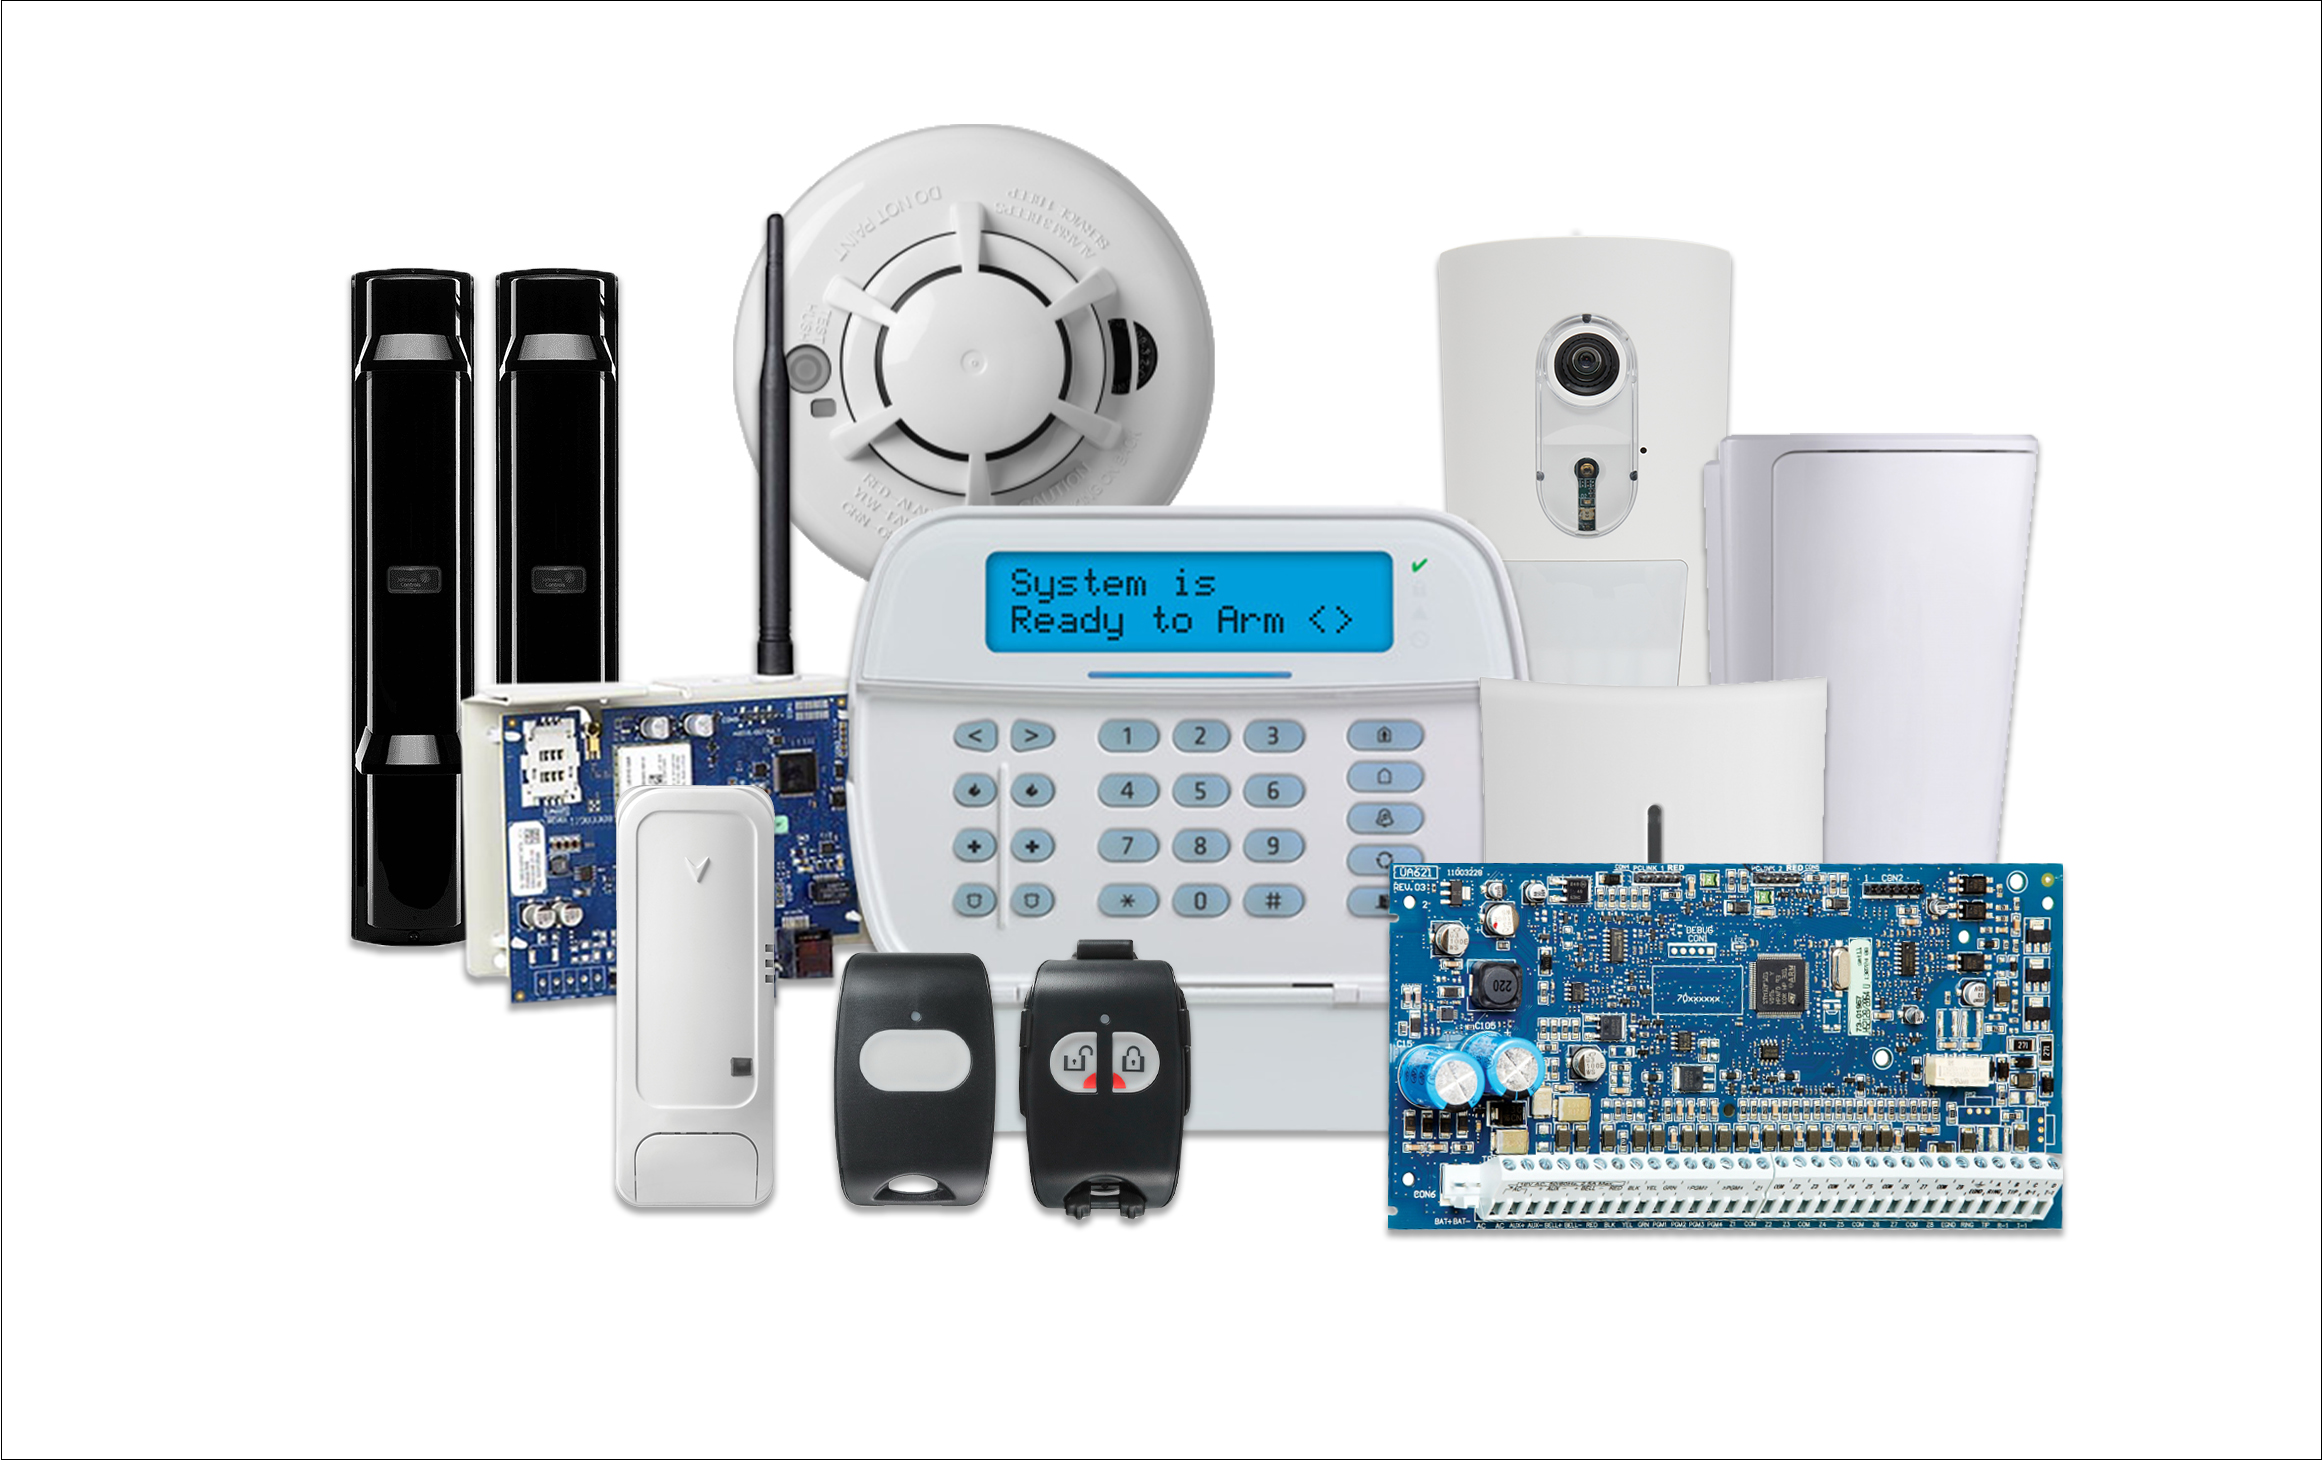
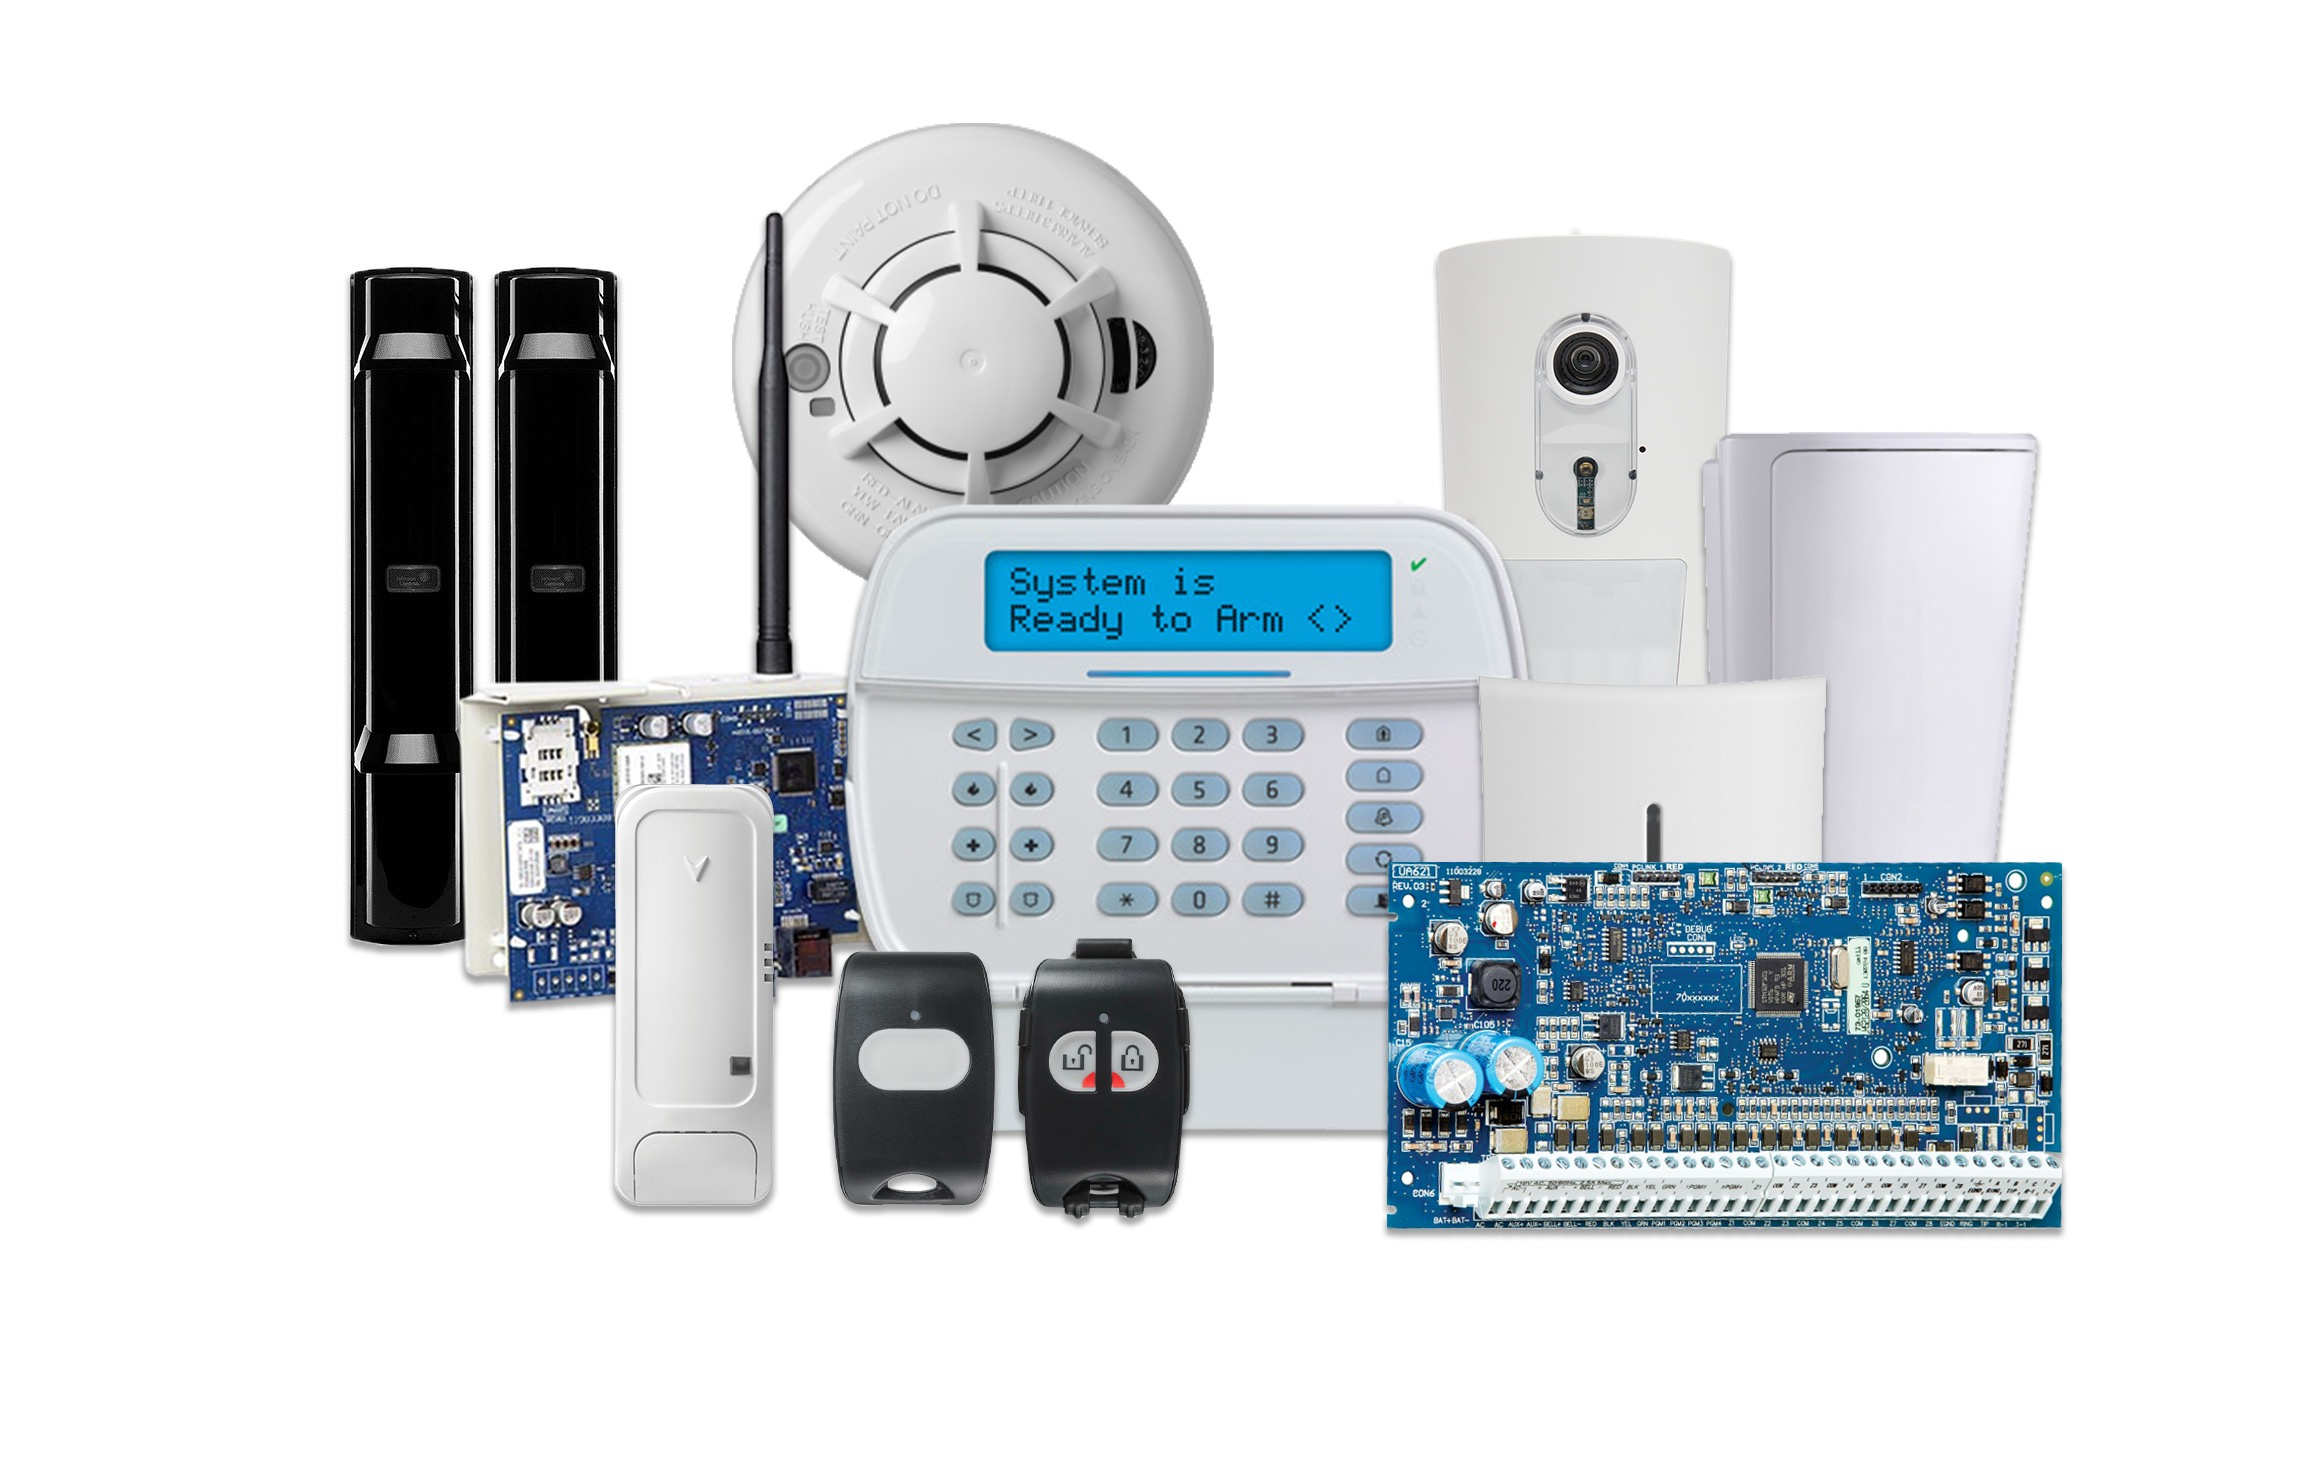
Ajusta visualizacion de paquetes Enterprise

diff --git a/empresa.html b/empresa.html
@@ -981,17 +981,20 @@
         .package-img-wrap {
             position: relative;
             overflow: hidden;
+            background: #fff;
         }
 
         .package-card img {
             width: 100%;
             height: 200px;
-            object-fit: cover;
+            object-fit: contain;
+            object-position: center;
             display: block;
             transition: transform 0.5s ease;
+            background: #fff;
         }
 
-        .package-card:hover img { transform: scale(1.04); }
+        .package-card:hover img { transform: scale(1.01); }
 
         .package-tag {
             position: absolute;
@@ -1945,7 +1948,7 @@
             display: flex;
             align-items: center;
             justify-content: center;
-            padding: 0;
+            padding: clamp(1rem, 2.6vw, 2rem);
             background: #fff;
         }
 
@@ -1953,9 +1956,10 @@
             width: 100%;
             height: 100%;
             max-height: none;
-            object-fit: cover;
+            object-fit: contain;
             object-position: center;
             filter: none;
+            background: #fff;
         }
 
         .enterprise-solution-content {
@@ -2647,7 +2651,7 @@
                     </div>
                     <div class="enterprise-solution-content">
                         <div class="enterprise-solution-heading">
-                            <span>Solución AMS</span>
+                            <span>Solución Enterprise</span>
                             <h3>Enterprise Advanced / DSC NEO 2128</h3>
                         </div>
                         <p class="enterprise-solution-lead">

diff --git a/css/styles.css b/css/styles.css
@@ -1806,9 +1806,10 @@ header.scrolled .hamburger span { background: var(--accent); }
     height: 100%;
     max-height: none;
     min-height: 0;
-    object-fit: cover;
+    object-fit: contain;
     object-position: center;
-    padding: 0;
+    padding: clamp(0.75rem, 2vw, 1.25rem);
+    background: #fff;
     filter: drop-shadow(0 18px 24px rgba(6,57,112,0.13));
 }
 
@@ -1930,11 +1931,12 @@ header.scrolled .hamburger span { background: var(--accent); }
 }
 
 .package-card img.package-image-white {
-    object-fit: cover;
+    object-fit: contain;
     object-position: center;
+    background: #fff;
 }
 
-.package-card:hover img { transform: scale(1.04); }
+.package-card:hover img { transform: scale(1.01); }
 
 .package-tag {
     position: absolute;

diff --git a/css/styles.min.css b/css/styles.min.css
@@ -1766,9 +1766,10 @@ header.scrolled .hamburger span { background: var(--accent); }
     height: 100%;
     max-height: none;
     min-height: 0;
-    object-fit: cover;
+    object-fit: contain;
     object-position: center;
-    padding: 0;
+    padding: clamp(0.75rem, 2vw, 1.25rem);
+    background: #fff;
     filter: drop-shadow(0 18px 24px rgba(6,57,112,0.13));
 }
 
@@ -1890,11 +1891,12 @@ header.scrolled .hamburger span { background: var(--accent); }
 }
 
 .package-card img.package-image-white {
-    object-fit: cover;
+    object-fit: contain;
     object-position: center;
+    background: #fff;
 }
 
-.package-card:hover img { transform: scale(1.04); }
+.package-card:hover img { transform: scale(1.01); }
 
 .package-tag {
     position: absolute;
